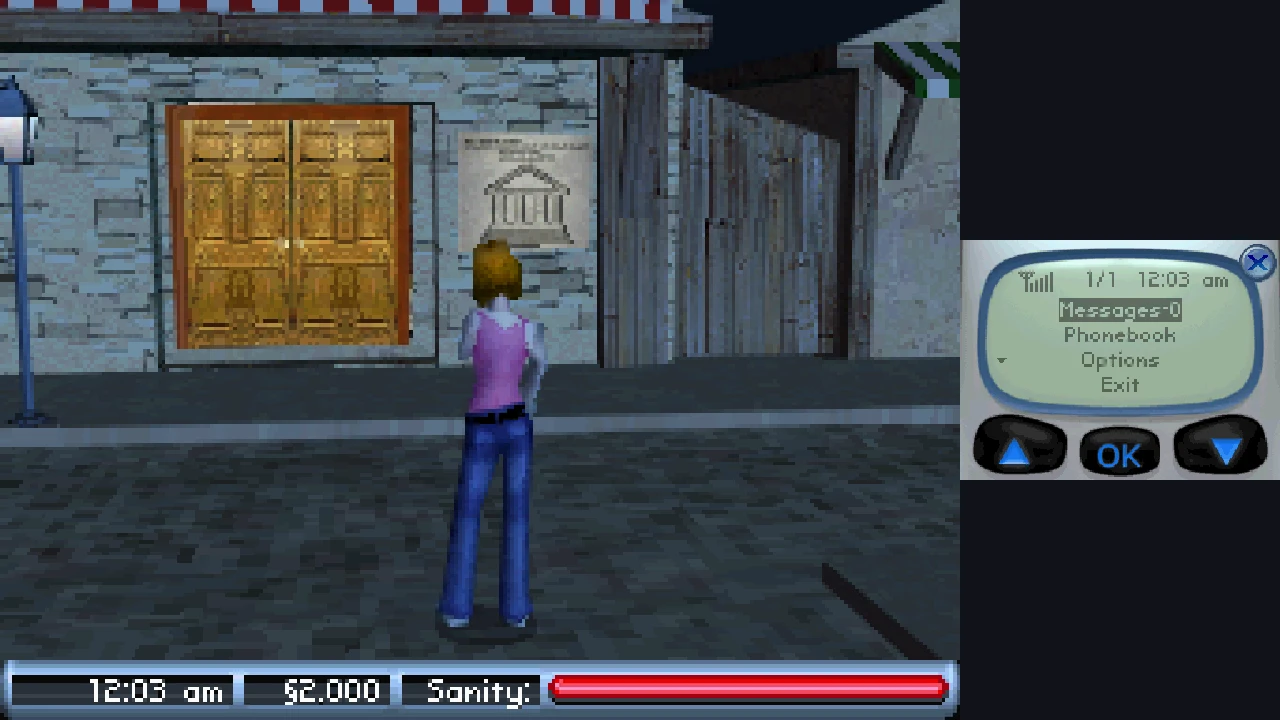
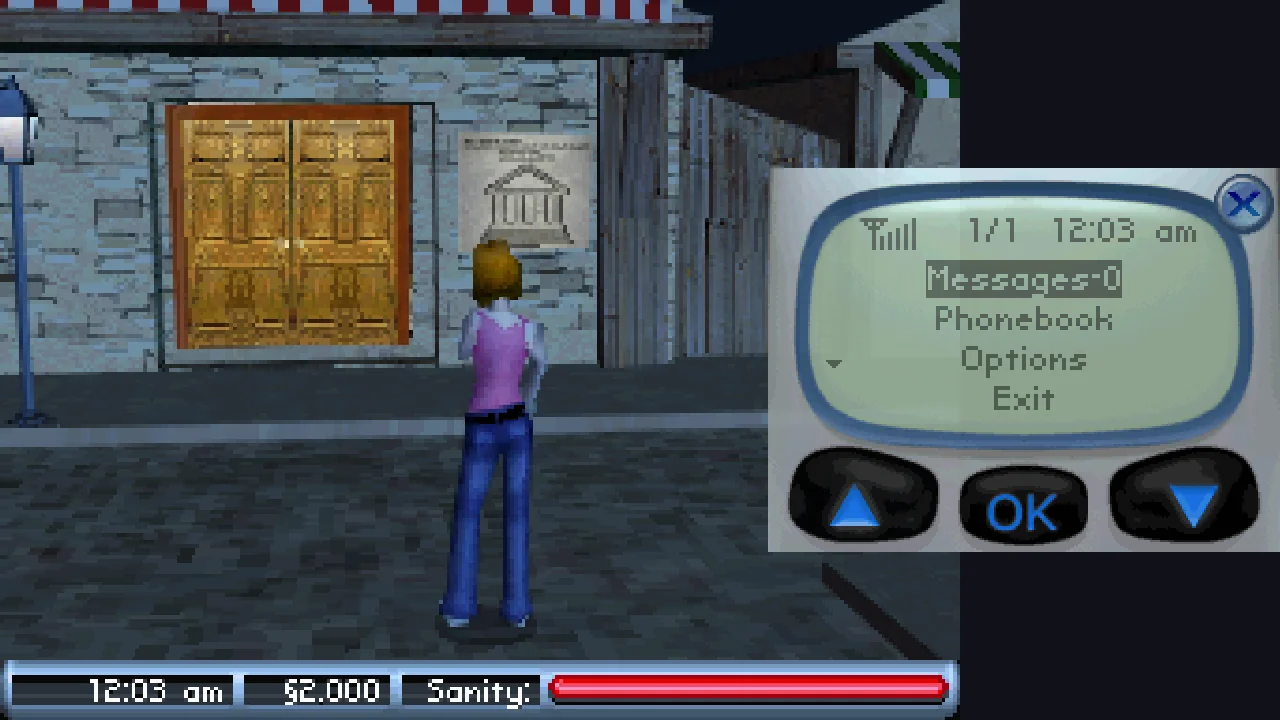
Docs: controls and settings, the menu, the panel, window scripts; new screenshots

Changed region(s): [[0.5938, 0.2139, 1.0, 0.7639], [0.3438, 0.7944, 0.4062, 0.8556], [0.375, 0.3972, 0.4062, 0.4278]]

diff --git a/CONTRIBUTING.md b/CONTRIBUTING.md
@@ -46,9 +46,12 @@ Before opening a pull request:
     ninja -C build sims2wide                 # no warnings from src/
     ./build/sims2wide --help                 # prints the usage (with no ROM it opens the file picker)
     ./build/sims2wide <rom> --headless --frames 1800 --shot-every 120 --shot-dir shots/boot
+    ninja -C build layout_test && ./build/layout_test   # every touch pixel maps back to itself, in every layout
 
 and look at the shots (`tools/sheet.py`). A layout change is checked with `--compose` from save
-states of the situations it touches (below).
+states of the situations it touches (below). A change to the menu, the mouse or the keys is
+checked in the window with a script of window events (`press`, `click`, `winshot`: see the
+table below) and `--frames`, which closes the window by itself.
 
 CI runs on every pull request and push to `main`: actionlint and shellcheck on the workflows,
 gitleaks over the whole history, CodeQL on `src/` (once the repository is public: code
@@ -89,6 +92,7 @@ The headless mode runs the game without a window, about four times faster than r
 |---|---|
 | `--headless --frames N` | run N frames, no window |
 | `--input FILE` | an input script, one event per line: `frame frames-held key[+key]` or `frame frames-held touch x y` (`scripts/` has examples) |
+| (in a script, window only) | `press KEY` (SDL's key names: `Escape`, `Return`, `F11`, `X`), `move x y` and `click x y` (window points), `wheel n`, `winshot` (the window's picture, `w<frame>.png`): real SDL events for the frontend; their frame counts the loop's turns, paused ones too |
 | `--shot-every N`, `--shot-at a,b,c`, `--shot-dir DIR` | both screens as PNG (256 × 384) |
 | `--compose` | the window's picture instead (the layout AUTO would show) |
 | `--state-load FILE`, `--state-save FILE` | start from a save state, save one at the end |
@@ -105,15 +109,49 @@ Keep your ROM in `roms/` and your shots and states in `shots/`: both are ignored
 ## How it works
 
 `src/main.cpp` reads the command line, starts the DS and runs the frame loop: input, one
-`RunFrame()`, AUTO's decision, shots, sound, picture. Each part has its own file pair:
-`app.h` (the shared state: the DS, the layout chosen and shown, fast forward), `input.*`
-(keyboard, mouse, the frontend's own keys), `video.*` (the window), `audio.*`, `layout.*`,
-`scene.*` (AUTO's detection), `script.*`, `shots.*`, `state.*`, `picker.*`.
+`RunFrame()`, AUTO's decision, shots, sound, picture (or, with the menu open, just the menu
+over the last picture). Each part has its own file pair: `app.h` (the shared state: the DS,
+the layout chosen and shown, fast forward), `settings.*` (every option, the file),
+`controls.*` (the key and button bindings), `input.*` (keyboard, mouse, controller),
+`video.*` (the window), `audio.*` (with `audiostretch.h`), `layout.*`, `scene.*` (AUTO's
+detection), `ui.*` and `menu.*` (the overlay and the pause menu), `backup.*`, `script.*`,
+`shots.*`, `state.*`, `picker.*`.
 
-- **Input script** (`script.*`): parses `--input` files.
-- **Layouts**: `Place()` puts the top and bottom screens on a canvas (FOCUS: 1280 × 720, the big
-  screen 960 × 720, the other 320 × 240 at the right, centred). The window scales the canvas;
-  mouse clicks go back through the same `Place()` to a touch-screen position.
+- **Input script** (`script.*`): parses `--input` files; the window events in it are pushed as
+  SDL events by `Input::PushScript`, so the frontend is checked through its real path.
+- **Layouts**: `Place()` puts the top and bottom screens on a canvas, sizing the top one from
+  `App::topAspect` (4:3 on the DS, wider with the widescreen world). FOCUS is 1280 × 720 with
+  the world 720 high at the left and the touch screen at twice its size (512 × 384) over the
+  world's right edge, centred and a little see-through (`Placement::alpha`): the DS's 4:3 world
+  leaves only a 320-wide column beside it, too narrow for a readable panel, and a wider world
+  leaves none; centred, the panel leaves the status bar at the world's bottom clear. With the
+  touch screen big (Tab), the world goes small into the column and nothing covers the touch
+  screen. The window scales the canvas; mouse clicks go back through the same `Place()` to a
+  touch-screen position (`tests/layout_test.cpp` checks every pixel in every layout).
+- **Settings** (`settings.*`): one `Settings` struct for every option, whoever uses it; loaded
+  from `settings.ini` (plain `key=value`) in SDL's per-user folder when the window opens, never
+  headless, saved on every change from the menu and when the program closes (with the window's
+  size). Add a field with its default, its two lines in `Load` and `Save`, its row in `menu.cpp`.
+- **Controls** (`controls.*`, `input.*`): each action (the 12 DS buttons, MENU, FAST FORWARD,
+  SWAP SCREENS, SAVE STATE, LOAD STATE, BLOW, CURSOR PRESS) has a key (an SDL keycode, so the
+  key's label on any layout) and a controller input; giving an action a key another one had
+  swaps them. Controllers are read through SDL_GameController, labels by SDL's convention (A is
+  the button printed A). The right stick moves a cursor on the touch screen, pressed with
+  CURSOR PRESS (LT). Over the world, the mouse wheel holds X or Y a few frames per notch (the
+  game zooms in with X, out with Y) and a right-button drag holds L or R for a frame every
+  three points moved (the game turns the camera continuously while they are held).
+- **The pause menu** (`menu.*`, `ui.*`): a `Canvas` the size of the output (ARGB, a 5 × 7
+  bitmap font: capitals, digits and a few signs only) uploaded as one texture over the game;
+  `Menu` draws a page of rows with values and a hint, and takes keyboard, controller and mouse
+  input (hover chooses a row only when the pointer moves onto another one, so a resting pointer
+  does not fight the keyboard). While it is open nothing is emulated. The same canvas shows the
+  stick cursor, short messages and the fast forward mark.
+- **Sound** (`audio.*`): the frames' samples go through `AudioStretch` (WSOLA, from FullDex),
+  which stretches them at their own pitch when frames take longer than a DS frame, steered to
+  keep about 100 ms queued; volume is applied after it; in fast forward the sound is muted or
+  played at normal pitch with the rest skipped.
+- **Save backups** (`backup.*`): `backups/<name>-<date>.sav` beside the save when the program
+  starts and every half hour, unless identical to the newest copy; the last eight are kept.
 - **AUTO**: `HudVisible()` checks row 190 of the top screen, the status bar's bottom border, one
   flat colour (`#415969`) from edge to edge in town and nowhere else. `AutoLayout` waits for ten
   frames of agreement before switching, so fades do not flicker.
@@ -128,11 +166,13 @@ Keep your ROM in `roms/` and your shots and states in `shots/`: both are ignored
   to it (`SafeForPicker()`), and errors show in SDL's message box (`Tell()`), never tinyfd's.
 - **Packaging**: `packaging/` holds the icon (drawn by `tools/make_icon.py`), the Mac app's
   `Info.plist`, `make_icns.sh` and the Windows resource file.
-- **Main loop**: one `RunFrame()` per frame, keys and touch from the script, the keyboard and
-  the mouse, audio queued to SDL at 48 kHz.
+- **Main loop**: one `RunFrame()` per frame, keys and touch from the script, the keyboard, the
+  mouse and the controller, audio queued to SDL at 48 kHz. `frame` counts the game's frames
+  (scripts, shots); `iter` every turn of the loop, paused ones too (`--frames`, window events).
 
 `src/platform.cpp` is melonDS's Platform interface (files, threads, the game's save), adapted
-from Pokémon FullDex; network, microphone and camera are stubs. `src/host.h` writes the save.
+from Pokémon FullDex, as are `controls.h`, `ui.*` and `audiostretch.h` (each says so in its
+header); network and camera are stubs. `src/host.h` writes the save.
 
 ## Commits and pull requests
 

diff --git a/README.md b/README.md
@@ -22,9 +22,14 @@
   matter there.
 - **It switches on its own.** It sees when you are in town from the game's own status bar, so
   the layout follows the game with nothing to set.
-- **The mouse is the stylus.** Click the touch screen wherever it is shown.
-- **Your keyboard is the DS.** Every button has a key; hold Space to fast forward.
-- **Save states and screenshots.** One key each, beside the game's own save.
+- **The mouse is the stylus, and the camera.** Click the touch screen wherever it is shown;
+  over the world, the wheel zooms and a right-button drag turns the camera.
+- **Your keyboard or controller is the DS.** Every button has a key and a pad button, all
+  remappable; a controller's right stick moves a cursor on the touch screen.
+- **A pause menu.** Esc: save and load state, the settings (display, graphics, sound,
+  controls), quit. Settings are kept between runs.
+- **Sound that keeps up.** When the computer falls behind, the music stretches instead of
+  crackling. Copies of your save are kept beside it, every half hour.
 
 It runs the game on the [melonDS](https://melonds.kuribo64.net/) emulator core, built in.
 It is a proof of concept: see [Good to know](#good-to-know).
@@ -64,29 +69,57 @@ them.
 
 ## Controls
 
-| Key | Does |
-|---|---|
-| Arrows | +Control Pad |
-| X / Z / S / A | A / B / X / Y |
-| Q / W | L / R |
-| Enter / Right Shift | Start / Select |
-| Mouse | the touch screen, wherever it is shown |
-| Tab | swap which screen is big |
-| 0 / 1 / 2 / 3 | layout: AUTO / FOCUS / SIDE / STACKED |
-| Space (hold) | fast forward |
-| F5 / F7 | save state / load state (beside the ROM, `.quick.st`) |
-| F12 | screenshot of both screens (beside the ROM, `-shot.png`) |
-| Esc | quit |
+| Key | Controller | Does |
+|---|---|---|
+| Arrows | D-pad or left stick | +Control Pad |
+| X / Z / S / A | A / B / X / Y (as labelled) | A / B / X / Y |
+| Q / W | LB / RB | L / R |
+| Enter / Right Shift | Start / Back | Start / Select |
+| Mouse | right stick + LT (the cursor) | the touch screen, wherever it is shown |
+| Mouse wheel, over the world | | zoom in / out (the game's X / Y) |
+| Right button drag, over the world | | turn the camera (the game's L / R) |
+| M (hold) | | blow into the microphone |
+| Esc | Guide, or Start + Back | the pause menu: save states, settings, quit |
+| Tab | right stick click | swap which screen is big |
+| Space (hold) | RT | fast forward |
+| F5 / F7 | | save state / load state (beside the ROM, `.quick.st`) |
+| 0 / 1 / 2 / 3 | | layout: AUTO / FOCUS / SIDE / STACKED |
+| F11 | | fullscreen |
+| F12 | | screenshot of both screens (beside the ROM, `-shot.png`) |
+
+Every row but the last four can be changed in the menu (SETTINGS > CONTROLS > KEYS AND
+BUTTONS): choose the action, press the key or button you want. Xbox, PlayStation and Switch
+controllers are known by their own button names.
 
 The game's own save goes beside the ROM, with the same name and `.sav`. A `.sav` from another
-emulator or a flash cart works if you put it there.
+emulator or a flash cart works if you put it there. A copy is made in `backups/` beside it when
+the program starts and every half hour (the last eight are kept).
+
+## Settings
+
+Esc opens the pause menu; SETTINGS has four pages:
+
+| Page | Settings |
+|---|---|
+| DISPLAY | fullscreen (F11), smooth scaling, layout |
+| GRAPHICS | 3D resolution, widescreen world, 60 fps |
+| SOUND | volume, sound during fast forward (muted, or at normal pitch skipping ahead) |
+| CONTROLS | stick touch cursor, microphone (off, the blow key, the real one), keys and buttons |
+
+<p align="center">
+  <img src="docs/screenshots/menu.webp" alt="The pause menu's settings page over the town: DISPLAY, GRAPHICS, SOUND, CONTROLS, with a hint for the chosen page" width="700">
+</p>
+
+They are kept in `settings.ini` in your user folder (the window's size too): on Windows
+`%APPDATA%\sims2-ds-wide`, on a Mac `~/Library/Application Support/sims2-ds-wide`, on Linux
+`~/.local/share/sims2-ds-wide`. Delete it to start over.
 
 ## Layouts
 
 | Layout | What you see |
 |---|---|
 | **AUTO** (default) | FOCUS in town, SIDE everywhere else |
-| **FOCUS** | one screen big, the other at the side (Tab swaps them) |
+| **FOCUS** | the world big, the touch screen at twice its size over the world's right edge, a little see-through (Tab makes the touch screen the big one instead) |
 | **SIDE** | both screens side by side |
 | **STACKED** | as on the DS, one above the other |
 
@@ -97,9 +130,8 @@ including the headless mode used to study the game's screens
 ## Good to know
 
 - **A proof of concept.** It shows the idea works; it is not finished.
-- **The side panel is small.** On a 1280 × 720 window it is 320 × 240, a little larger than
-  the DS screen. Readable, but a bigger panel is planned.
-- **4:3 world.** No widescreen 3D yet.
+- **The side panel covers a strip of the world.** In FOCUS the touch screen lies over the
+  world's right edge (the status bar stays clear). Tab or SIDE (2) when you want all of it.
 - **Minigames not checked yet.** They may want both screens big: switch to SIDE (2) if so.
 - **Tested with the European game** (code `ASJP`). The American one should work; its automatic
   layout is untested.
@@ -124,7 +156,9 @@ GPLv3, see [LICENSE](LICENSE), as melonDS. Built on [melonDS](https://github.com
 1.1, [SDL2](https://www.libsdl.org/), [stb_image_write](https://github.com/nothings/stb) and
 [tinyfiledialogs](https://sourceforge.net/projects/tinyfiledialogs/).
 The idea comes from [Pokémon FullDex](https://github.com/mamesj/pokemon-fulldex), which does
-this for the DS Pokémon games; `src/platform.cpp` is adapted from it.
+this for the DS Pokémon games; `src/platform.cpp`, the remappable controls (`src/controls.*`),
+the menu's drawing and font (`src/ui.*`) and the sound stretching (`src/audiostretch.h`) are
+adapted from it.
 
 ## Not affiliated, no warranty
 

diff --git a/CLAUDE.md b/CLAUDE.md
@@ -25,12 +25,17 @@ the owner makes it public; write everything as if it were public already).
 
 | Path | Role |
 | --- | --- |
-| `src/main.cpp` | Command line, starting the DS, the frame loop (input → `RunFrame` → AUTO → shots → sound → picture) |
-| `src/app.h` | Shared state: the `NDS`, layout chosen/shown, `mainIsTop`, fast forward, quit, F5/F12 paths |
-| `src/input.*` | Keyboard (DS keys and the frontend's keys) and mouse as the stylus |
-| `src/video.*` | The SDL window: draws the shown layout, maps window points to touch positions |
-| `src/audio.*` | SDL sound queue |
-| `src/layout.*` | `Place()` (canvas per layout), `CanvasFit` (letterboxed scaling), `TouchFromOutput` |
+| `src/main.cpp` | Command line, starting the DS, the frame loop (input → `RunFrame` → AUTO → shots → sound → picture; paused: menu only) |
+| `src/app.h` | Shared state: the `NDS`, layout chosen/shown, `mainIsTop`, fast forward, quit, `micBlow`, `topAspect`, F5/F12 paths |
+| `src/settings.*` | `Settings`: every option with its default; `settings.ini` load/save (SDL pref path), not headless |
+| `src/controls.*` | Actions, key and controller bindings, defaults, names (from FullDex) |
+| `src/input.*` | Keyboard, mouse (stylus; wheel and right drag as the camera), SDL_GameController, stick cursor, script window events |
+| `src/video.*` | The SDL window: draws the shown layout and the overlay, fullscreen, scaling, maps window points to touch positions |
+| `src/ui.*`, `src/menu.*` | `Canvas` (ARGB overlay, 5 × 7 font) and `Menu` (from FullDex); `PauseMenu` (pages, bindings capture, toasts, cursor) |
+| `src/audio.*`, `src/audiostretch.h` | SDL sound queue, WSOLA stretching when slow (from FullDex), volume, fast forward |
+| `src/backup.*` | Copies of the `.sav` in `backups/`, at start and every half hour, eight kept |
+| `src/layout.*` | `Place()` (canvas per layout, `topAspect`, FOCUS's overlaid panel), `CanvasFit`, `TouchFromOutput`, `OverTop` |
+| `tests/layout_test.cpp` | Touch mapping of every pixel in every layout and size (`ninja -C build layout_test`) |
 | `src/scene.*` | AUTO's detection from the screens' pixels: `HudVisible()`, `AutoLayout::Update(top, bottom, mainIsTop)` |
 | `src/script.*`, `src/shots.*`, `src/state.*`, `src/picker.*` | Headless input scripts; PNG shots and `--compose`; save states; ROM file picker and `Tell()` |
 | `src/platform.cpp` | melonDS Platform interface (files, threads, save), adapted from pokemon-fulldex |
@@ -61,7 +66,17 @@ Save states `shots/s2.st` (main menu), `s3` (Create-a-Sim), `s4` (Keep this Sim?
 - HUD detection uses row 190 only (`#415969` from x 8 to 248). Row 186 crosses the clock's
   white text; rows 189 and 191 are not flat.
 - Touch mapping goes through the same `Place()` as drawing: change one, the other follows.
-  Window points and renderer pixels differ on HiDPI; `touchAt` converts.
+  Window points and renderer pixels differ on HiDPI; `Video::ToOutput` converts. FOCUS's panel
+  lies over the world: it is drawn second (`Placement::topFirst`, `alpha`) and wins the mouse.
+- The game zooms in with X and out with Y; L and R turn the camera continuously while held
+  (checked with `scripts`-style runs from `s7`). The wheel and the right-button drag press them.
+- Settings are never loaded or saved headless (runs must be the same everywhere); the menu
+  never opens there. Window events in a script (`press`, `click`, `winshot`) count loop turns
+  (`iter`), not game frames: the game stands still while the menu is open.
+- The menu's font has capitals, digits and `:-+./<>!(),` only: write its text in capitals.
+- A real pointer resting on the menu sends motion events; hover selects a row only when the
+  pointer moves onto another one, otherwise it overrides keyboard navigation.
+- Fullscreen keeps the pointer visible: the mouse is the stylus.
 - In town the bottom screen often has a popup to close (the X near 126,110 or 126,126) before
   the D-pad moves the Sim.
 - JIT is off (`ENABLE_JIT OFF`): macOS arm64 needs MAP_JIT entitlements.
@@ -85,7 +100,8 @@ Save states `shots/s2.st` (main menu), `s3` (Create-a-Sim), `s4` (Keep this Sim?
 | --- | --- | --- |
 | 1 | POC: melonDS + SDL frontend, headless study of the screens, AUTO layout | ✅ |
 | 2 | Repository template (docs, CI, release, issue templates), portfolio page in `lborruto/docs` | 🔄 |
-| 3 | Bigger side panel, or a panel over the edge of the world view | ⏳ |
+| 3 | Bigger side panel, or a panel over the edge of the world view | ✅ |
+| 7 | Comfort: pause menu, settings file, controllers, mouse camera, fullscreen, sound stretching, save backups | ✅ |
 | 4 | Widescreen 3D, borrowed from FullDex's `GPU3D_Wide.cpp` | ⏳ |
 | 5 | Survey the minigames and the other situations (shops, jobs, night) | ⏳ |
 | 6 | Desktop apps: file picker, universal Mac app, Windows .exe (CI and release) | 🔄 (PR #1) |

diff --git a/CHANGELOG.md b/CHANGELOG.md
@@ -20,3 +20,19 @@ Windows, Mac and Linux downloads attached; the release takes its notes from that
   opens in the same folder next time.
 - A headless mode to study the screens: input scripts, shots, save states, and pictures of the
   window's layout (`--compose`).
+- The side panel at twice the DS's size, over the world's right edge, a little see-through;
+  every layout follows the world's shape when it is widescreen.
+- A pause menu (Esc): resume, save and load state, settings in four pages (display, graphics,
+  sound, controls) with a hint for each, quit. Mouse, keyboard and controller all work in it.
+- Settings kept between runs (`settings.ini` in the user folder), the window's size too.
+- Controllers (Xbox, PlayStation, Switch): every DS button, the triggers for fast forward,
+  Guide or Start + Back for the menu, the right stick as a cursor on the touch screen. Every
+  key and button can be changed in the menu; M blows into the microphone.
+- The mouse works the camera: the wheel zooms, a right-button drag turns it, over the world.
+- Fullscreen (F11) and smooth scaling.
+- Sound stretched at its own pitch when the emulation falls behind, instead of crackling; a
+  volume setting; fast forward muted or at normal pitch.
+- Copies of the game's save in `backups/` beside it, at start and every half hour, the last
+  eight kept.
+- Input scripts can drive the window itself (`press`, `move`, `click`, `wheel`, `winshot`),
+  for checking the menu and the mouse.
